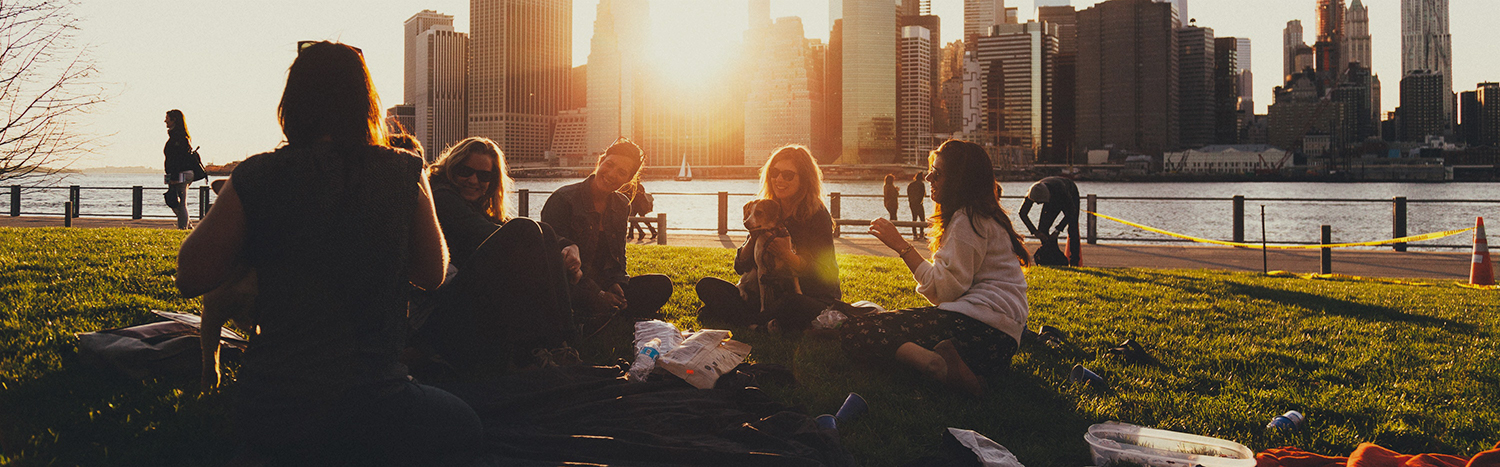
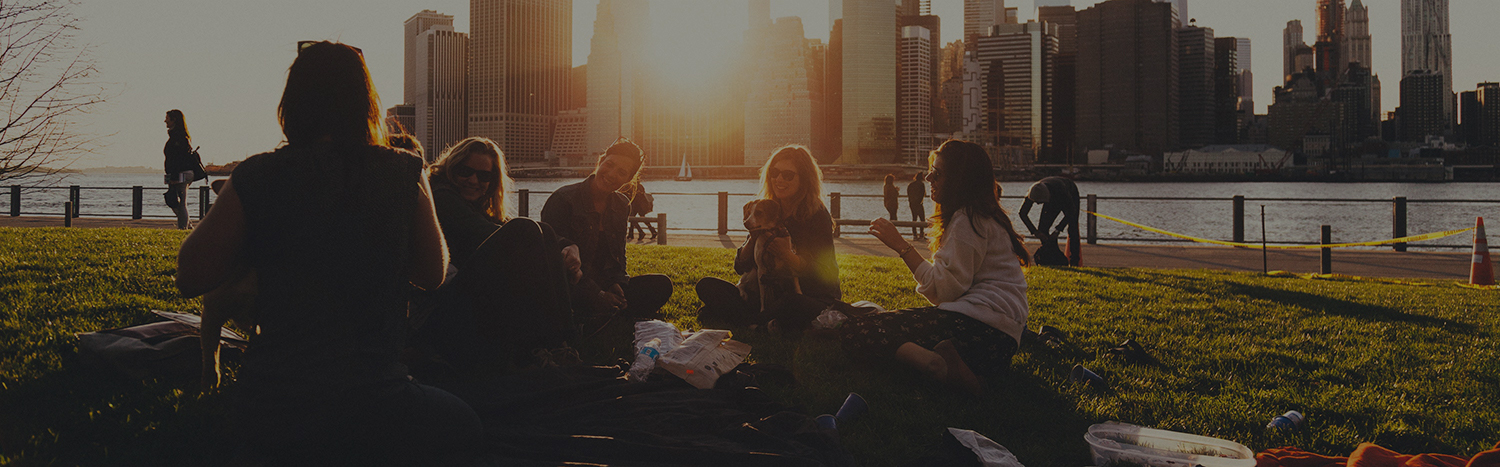
deployment

diff --git a/public/home.html b/public/home.html
@@ -15,25 +15,28 @@
 </head>
 
 <body>
-        <div class="jumbotron jumbotron-fluid" style="background-image: url(lady.jpg); background-repeat: no-repeat; background-size: cover">
-            <div class="container">
-                    <h1 class="display-4" style="color: white">Welcome to Friend Finder</h1>
-                    <p class="lead" style="color: white">We connect humans with one another.</p>
-                    <hr class="my-4" style="background: white">
-                    <p style="color: white">Just fill out a survey to find your new best friend, today!</p>
-                    <p class="lead" style="color: white">
-                      <a class="btn btn-primary btn-lg btn-light" href="/survey" role="button">Take the Survey</a>
-                    </p>
+    <div class="jumbotron jumbotron-fluid"
+        style="background-image: url(background.jpg); background-repeat: no-repeat; background-size: cover">
+        <div class="container">
+            <h1 class="display-4" style="color: white">Welcome to FriendFinder</h1>
+            <p class="lead" style="color: white">We connect humans with one another.</p>
+            <hr class="my-4" style="background: white">
+            <p style="color: white">Just fill out a survey to find your new best friend, today!</p>
+            <p class="lead" style="color: white">
+                <a class="btn btn-primary btn-lg btn-light" href="/survey" role="button">Take the Survey</a>
+            </p>
+        </div>
+
+    </div>
+    <div class="container">
+        <div class="row">
+            <div class="col">
+                <button type="button" id="api-endpoint" class="btn btn-link">API Friends List</button>
+                <button type="button" class="btn btn-link">
+                    <a href="https://github.com/jrobs87/FriendFinder" target="blank">GitHub Repo</a></button>
             </div>
-           
-              </div>
-<div class="container-fluid" >
-    <div class="row">
-        <div class="col">
-               
         </div>
     </div>
-</div>
     <script src="https://code.jquery.com/jquery-3.4.1.min.js"
         integrity="sha256-CSXorXvZcTkaix6Yvo6HppcZGetbYMGWSFlBw8HfCJo=" crossorigin="anonymous"></script>
 
@@ -43,6 +46,25 @@
     <script src="https://maxcdn.bootstrapcdn.com/bootstrap/4.0.0/js/bootstrap.min.js"
         integrity="sha384-JZR6Spejh4U02d8jOt6vLEHfe/JQGiRRSQQxSfFWpi1MquVdAyjUar5+76PVCmYl"
         crossorigin="anonymous"></script>
+    <script>
+        $(document).ready(function () {
+            console.log('Welcome to FriendFinder!');
+
+            $('#api-endpoint').on('click', function () {
+                console.log('Requesting JSON');
+
+                $.ajax({
+                    type: "GET",
+                    url: "/api/friends",
+                    // data: data,
+                    success: function (data) {
+                        console.log(data);
+                        document.write('Open Console to view the JSON response.');   
+                    }
+                });
+            })
+        });
+    </script>
 </body>
 
 </html>

diff --git a/server.js b/server.js
@@ -13,7 +13,7 @@ app.use(express.json());
 
 // ===============================================================================================
 
-// needed to serve the css in public
+// needed to serve the css and images in public
 app.use(express.static(__dirname + '/public'));
 
 // ===============================================================================================
@@ -27,40 +27,47 @@ app.get('/survey', (req, res) => res.sendFile(path.join(__dirname + '/public/sur
 // ===============================================================================================
 
 // API routes
-app.post('/api/friends', (req, res) => {
-    // console.log(req.body);
-    let user = req.body;
-    console.log('User input received.');
-    console.log(user);
-    
-    // friends.profiles.push(req.body);
-    // console.log(friends.profiles);
+app.get('/api/friends', (req, res) => {
+    console.log('API Endpoint Requested');
 
+    // res.write(JSON.stringify(friends));
+    // res.send(friends);
+    // res.json({ friends })
+    // res.send(friends);
+    res.json(friends)
+});
+
+
+// API routes
+app.post('/api/friends', (req, res) => {
+    console.log('User input received.');
+let user = req.body;
     let currentDiff = 100;
     let currentMatch = '';
 
-    for (i = 0; i < friends.profiles.length; i ++) {
+    for (i = 0; i < friends.profiles.length; i++) {
         diff = 0;
 
         let profile = friends.profiles[i];
 
-        for (z = 0; z < 10; z ++) {
+        for (z = 0; z < 10; z++) {
             test = Math.abs(user.answers[z] - profile.answers[z]);
-            diff =+ test;
-            
+            diff = + test;
+
         }
 
         console.log(`${profile.name} diff is ${diff}`)
 
-      if (diff < currentDiff) {
-          currentDiff = diff;
-          currentMatch = profile;
-      }
+        if (diff < currentDiff) {
+            currentDiff = diff;
+            currentMatch = profile;
+        }
 
     }
     console.log(`Best match is ${currentMatch.name}`);
 
-    res.send(currentMatch)}); // send match back to caller (submit function in survey.html)
+    res.send(currentMatch)
+}); // send match back to caller (submit function in survey.html)
 
 // ===============================================================================================
 

diff --git a/public/survey.html b/public/survey.html
@@ -19,7 +19,7 @@
         style="background-image: url(background.jpg); background-repeat: no-repeat; background-size: cover">
         <div class="container">
             <h1 class="display-4" style="color: white">Get started</h1>
-            <p class="lead" style="color: white">Fill out your profile below and find your best mate today.</p>
+            <p class="lead" style="color: white">Just fill out your profile, answer some questions, and start making friends!</p>
         </div>
     </div>
 
@@ -30,7 +30,7 @@
                 <form>
                     <br>
                     <h3>Profile Information</h3>
-                    <p>Let's get that profile set up!</p>
+                    <p>Tell us about yourself!</p>
                     <br>
                     <div class="form-group">
                         <label for="exampleFormControlInput1">Full Name</label>
@@ -51,7 +51,7 @@
                     <br>
                     <br>
                     <h3>Survey Questions</h3>
-                    <p>Fill in the answers below from 1-5. 1 is strongly disagree. 5 is strongly agree.</p>
+                    <p>Fill in the answers below to search for your best match. 1 is strongly disagree. 5 is strongly agree.</p>
                     <br>
                     <div class="form-group">
                         <label for="exampleFormControlSelect1">Empathy is an important quality.</label>
